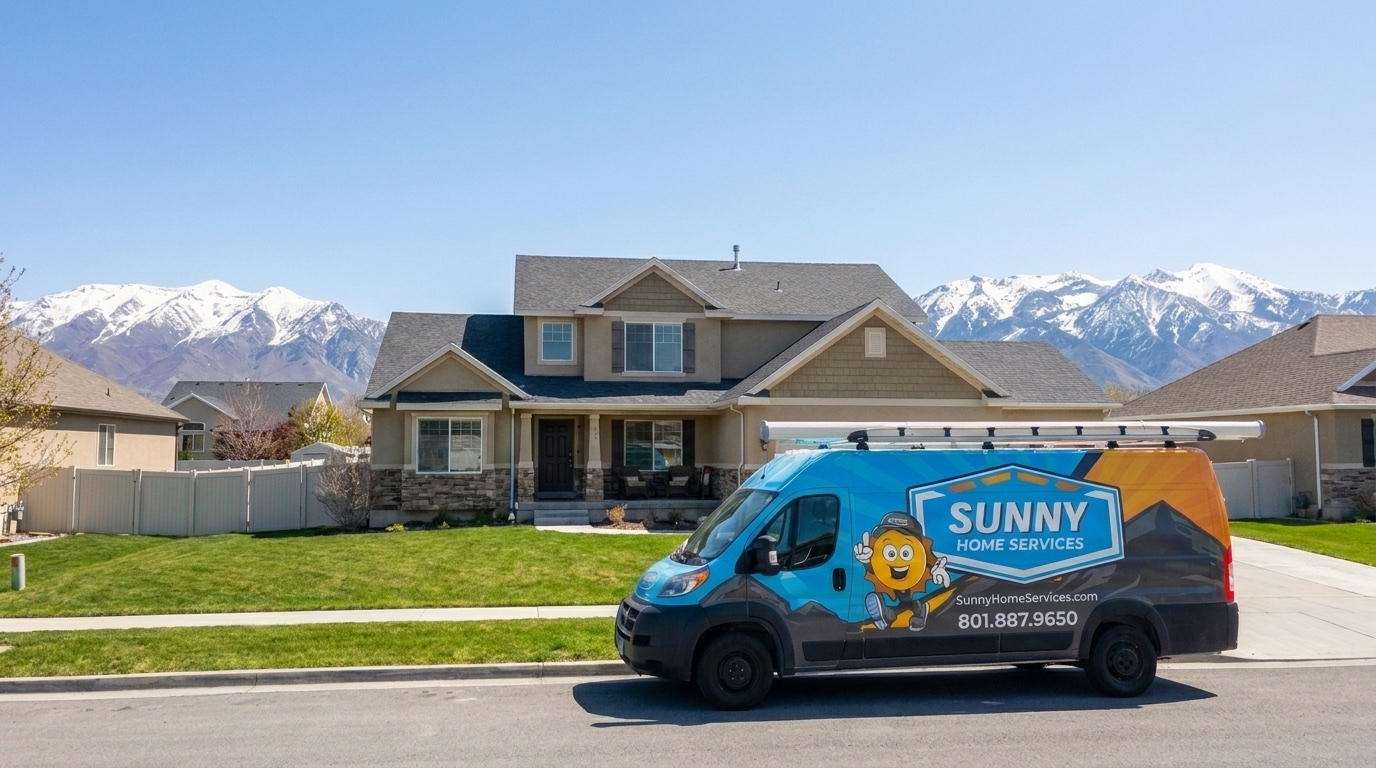
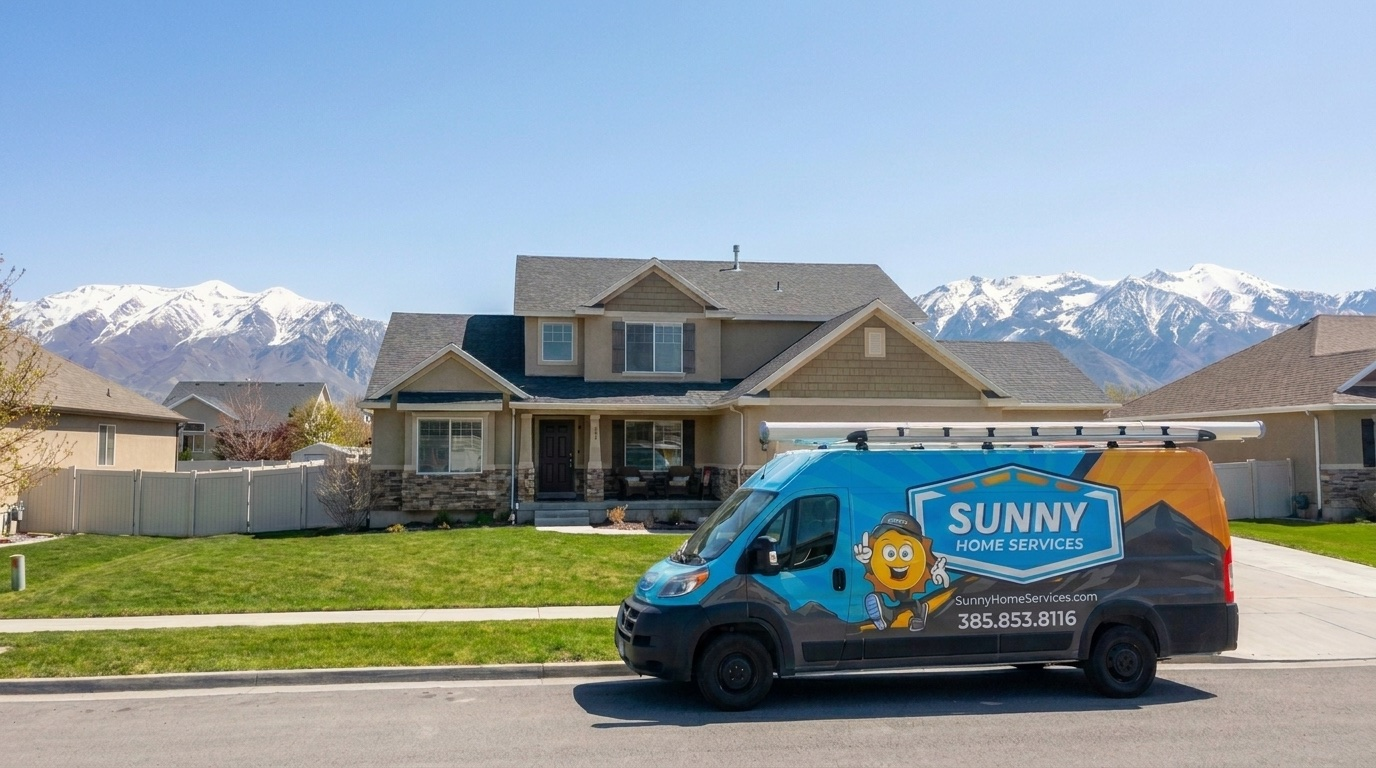
Update van-wrap phone number to 385.853.8116 in imagery
Edited the phone number on the two van images that appear on the pages:
- assets/van2-current.jpg (homepage About section)
- assets/heroes/community-van.jpg (community hero)
Same wrap font/color/position; only the digits changed. Golden-hour alt still
shows the old number (regenerate if used); hero video does not show it legibly.

diff --git a/assets/PHOTO-PROMPTS.md b/assets/PHOTO-PROMPTS.md
@@ -367,3 +367,11 @@ The primary community-van.jpg generated a generic sun character on the van. Edit
 place the EXACT Sunny mascot (brand-ray.png uploaded as media 7bd87db3-48f0-4fb9-8164-91b8e40dba1c)
 onto the van wrap. Final: job 51445da6-43ed-491e-8011-0f1442540fc3 -> heroes/community-van.jpg.
 Lesson: van scenes invent a stand-in mascot; pass brand-ray.png as a reference and edit it in.
+
+## Round 13 - Phone number update on van wraps (2026-07-21)
+Live-site number changed to 385.853.8116. Van wrap edits (nano_banana_pro, "change the
+number ... keep font/position"):
+- assets/van2-current.jpg (About section) - job d44154a1-f57a-495d-bd2a-f324125b5f9e
+- assets/heroes/community-van.jpg (hero) - job b7522da9-c1de-4e7b-b08d-416a55863a45
+STILL OLD: heroes/community-van-golden.jpg (alt, near-side wrap already garbled - regenerate
+if ever used). hero2.mp4 - van appears but number not legibly shown; no edit needed.
